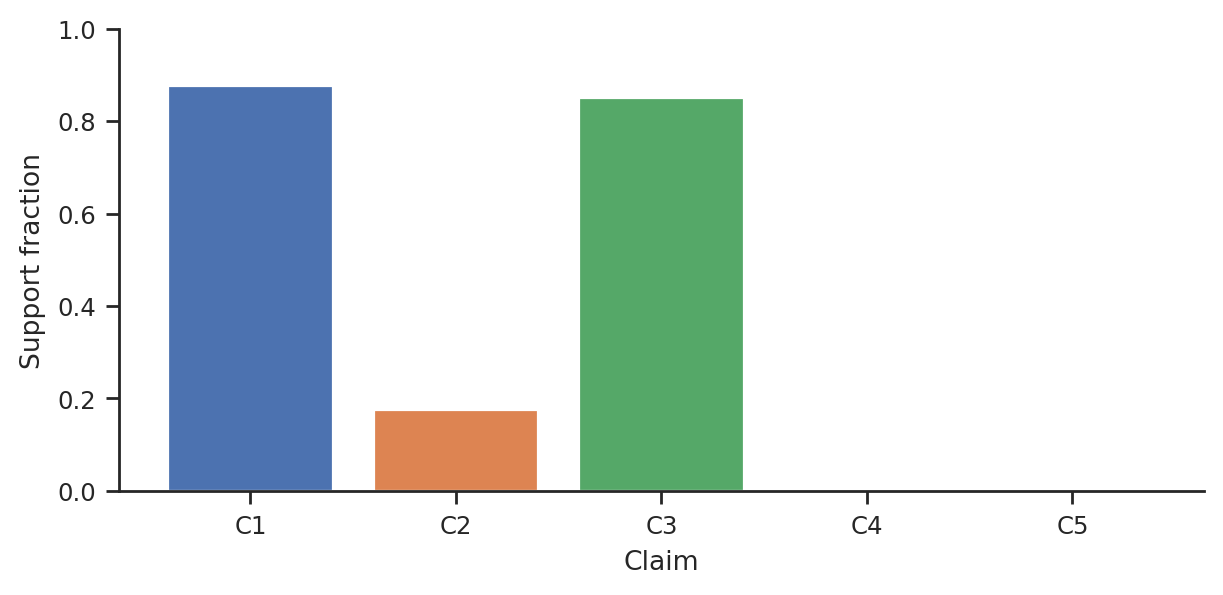
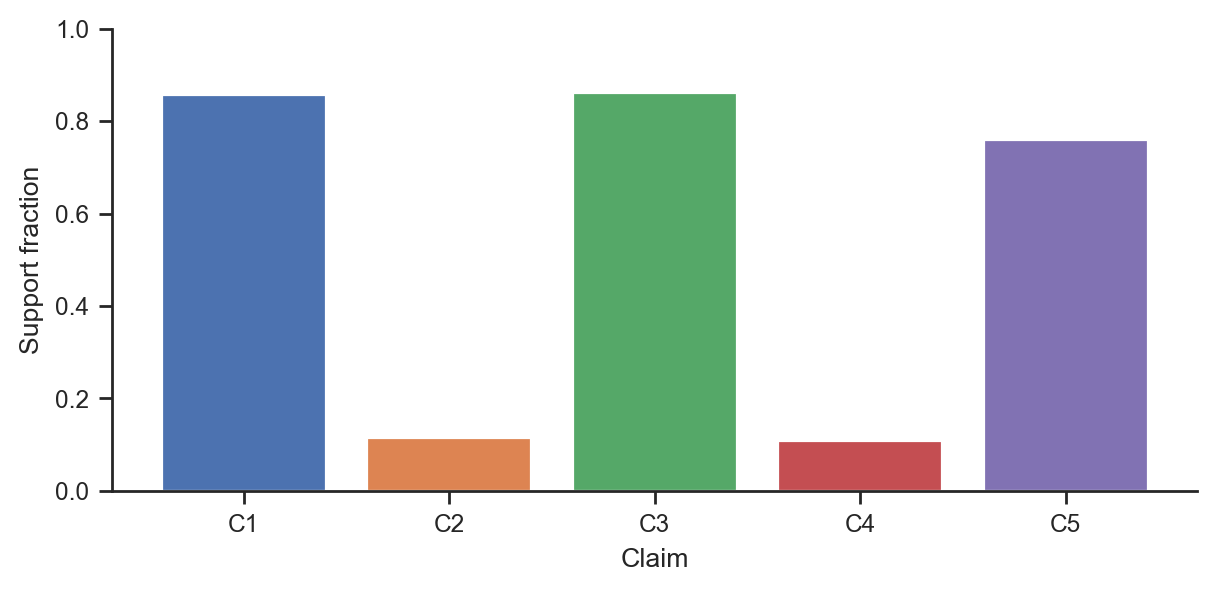
Fix claim aggregation and reproducibility diagnostics

Changed region(s): [[0.0, 0.0304, 0.9992, 0.973]]

diff --git a/closed_loop_repro/analysis/make_claim_tables.py b/closed_loop_repro/analysis/make_claim_tables.py
@@ -3,6 +3,7 @@ from __future__ import annotations
 import argparse
 from pathlib import Path
 
+import numpy as np
 import pandas as pd
 
 from closed_loop_repro.analysis.statistics import bootstrap_ci, fraction, pearson
@@ -18,13 +19,32 @@ CLAIMS = {
 }
 
 
+SUMMARY_FILENAMES = {"sweep_summary.csv", "robustness_summary.csv", "generalization_summary.csv"}
+
+
 def collect_metrics(root: str | Path) -> pd.DataFrame:
+    return collect_runs(root)
+
+
+def collect_runs(root: str | Path) -> pd.DataFrame:
+    summary_paths = sorted(path for path in Path(root).rglob("*.csv") if path.name in SUMMARY_FILENAMES)
+    if summary_paths:
+        selected = _prefer_full_outputs(summary_paths)
+        frames = []
+        for path in selected:
+            frame = pd.read_csv(path)
+            frame["source_table"] = str(path)
+            frames.append(frame)
+        return _add_derived_columns(pd.concat(frames, ignore_index=True, sort=False))
+
     rows = []
     for path in Path(root).rglob("metrics.json"):
+        if _is_smoke_path(path) and any(not _is_smoke_path(candidate) for candidate in Path(root).rglob("metrics.json")):
+            continue
         row = read_json(path)
         row["metrics_path"] = str(path)
         rows.append(row)
-    return pd.DataFrame(rows)
+    return _add_derived_columns(pd.DataFrame(rows))
 
 
 def make_claim_tables(results: str | Path, out: str | Path) -> dict[str, Path]:
@@ -38,12 +58,12 @@ def make_claim_tables(results: str | Path, out: str | Path) -> dict[str, Path]:
         return {"claim_csv": claim_path}
 
     rows = []
-    rows.append(_claim_row("C1", df, "claim_C1_divergence", "fraction of runs with gain/performance divergence"))
-    rows.append(_claim_row("C2", df, "claim_C2_stages", "fraction with algorithmic plateau/stage detection"))
-    rows.append(_claim_row("C3", df, "claim_C3_stability_transition", "fraction with coupled spectral radius crossing"))
-    rows.append(_numeric_row("C4", df, "stability_to_plateau_gap", "bootstrap CI for stability-to-plateau timing gap"))
+    rows.append(_claim_row("C1", df, "claim_C1_loss_divergence", "deployed closed-loop loss gap >5%; gain divergence reported in diagnostics"))
+    rows.append(_claim_row("C2", df, "claim_C2_stages", "finite runs with algorithmic plateau/stage detection"))
+    rows.append(_claim_row("C3", df, "claim_C3_stability_transition", "finite coupled spectral radius crossing"))
+    rows.append(_claim_row("C4", df, "claim_C4_tradeoff", "open-loop deployed-loss spike plus closed-loop recovery"))
     if "variant" in df.columns:
-        rows.append(_claim_row("C5", df[df["variant"].notna()], "claim_C1_divergence", "generalization variants preserving C1 divergence"))
+        rows.append(_claim_row("C5", df[df["variant"].notna()], "claim_C1_loss_divergence", "generalization variants preserving deployed-loss divergence"))
     else:
         rows.append({"claim": "C5", "description": CLAIMS["C5"], "n": 0, "support_fraction": float("nan"), "notes": "no generalization runs found"})
 
@@ -54,23 +74,114 @@ def make_claim_tables(results: str | Path, out: str | Path) -> dict[str, Path]:
 
     stats = {
         "n_runs": len(df),
+        "n_finite_runs": int(_bool_series(df.get("finite_final_losses", pd.Series(False, index=df.index))).sum()),
         "closed_open_final_loss_corr": pearson(df.get("final_closed_test_loss", []), df.get("final_open_test_loss", [])),
+        "c1_deployed_loss_support": fraction(df.get("claim_C1_loss_divergence", [])),
+        "c1_gain_support": fraction(df.get("claim_C1_gain_divergence", [])),
+        "mean_deployed_loss_gap": float(pd.to_numeric(df.get("deployed_loss_gap", pd.Series(dtype=float)), errors="coerce").mean()),
+        "mean_stability_to_plateau_gap": float(pd.to_numeric(df.get("stability_to_plateau_gap", pd.Series(dtype=float)), errors="coerce").mean()),
     }
     pd.DataFrame([stats]).to_csv(out / "summary_statistics.csv", index=False)
-    return {"claim_csv": claim_path, "summary_csv": out / "summary_statistics.csv"}
+    outputs = {"claim_csv": claim_path, "summary_csv": out / "summary_statistics.csv"}
+    if "perturbation" in df.columns and df["perturbation"].notna().any():
+        perturbation_path = out / "perturbation_summary.csv"
+        _group_summary(df[df["perturbation"].notna()], "perturbation").to_csv(perturbation_path, index=False)
+        outputs["perturbation_csv"] = perturbation_path
+    if "variant" in df.columns and df["variant"].notna().any():
+        variant_path = out / "variant_summary.csv"
+        _group_summary(df[df["variant"].notna()], "variant").to_csv(variant_path, index=False)
+        outputs["variant_csv"] = variant_path
+    return outputs
 
 
 def _claim_row(claim: str, df: pd.DataFrame, column: str, notes: str) -> dict:
     if df.empty or column not in df:
         return {"claim": claim, "description": CLAIMS[claim], "n": 0, "support_fraction": float("nan"), "notes": notes}
-    return {"claim": claim, "description": CLAIMS[claim], "n": int(df[column].notna().sum()), "support_fraction": fraction(df[column].fillna(False)), "notes": notes}
+    values = _bool_series(df[column]).fillna(False)
+    mean, lo, hi = bootstrap_ci(values.astype(float).to_numpy(), n_boot=500)
+    return {
+        "claim": claim,
+        "description": CLAIMS[claim],
+        "n": int(len(values)),
+        "support_fraction": mean,
+        "ci_low": lo,
+        "ci_high": hi,
+        "notes": notes,
+    }
 
 
-def _numeric_row(claim: str, df: pd.DataFrame, column: str, notes: str) -> dict:
-    if column not in df:
-        return {"claim": claim, "description": CLAIMS[claim], "n": 0, "support_fraction": float("nan"), "notes": notes}
-    mean, lo, hi = bootstrap_ci(pd.to_numeric(df[column], errors="coerce").dropna().to_numpy(), n_boot=500)
-    return {"claim": claim, "description": CLAIMS[claim], "n": int(df[column].notna().sum()), "support_fraction": mean, "ci_low": lo, "ci_high": hi, "notes": notes}
+def _prefer_full_outputs(paths: list[Path]) -> list[Path]:
+    full_paths = [path for path in paths if not _is_smoke_path(path)]
+    return full_paths or paths
+
+
+def _is_smoke_path(path: Path) -> bool:
+    return any("smoke" in part.lower() for part in path.parts)
+
+
+def _add_derived_columns(df: pd.DataFrame) -> pd.DataFrame:
+    if df.empty:
+        return df
+    df = df.copy()
+    closed = pd.to_numeric(df.get("final_closed_test_loss", pd.Series(np.nan, index=df.index)), errors="coerce")
+    open_loop = pd.to_numeric(df.get("final_open_test_loss", pd.Series(np.nan, index=df.index)), errors="coerce")
+    finite = np.isfinite(closed) & np.isfinite(open_loop)
+    loss_gap = open_loop - closed
+    relative_gap = loss_gap / np.maximum(np.abs(closed), 1e-12)
+    df["finite_final_losses"] = finite
+    df["deployed_loss_gap"] = loss_gap
+    df["deployed_loss_gap_relative_to_closed"] = relative_gap
+    df["claim_C1_loss_divergence"] = finite & (relative_gap > 0.05)
+
+    gain_distance = pd.to_numeric(df.get("trajectory_gain_distance", pd.Series(np.nan, index=df.index)), errors="coerce")
+    df["claim_C1_gain_divergence"] = np.isfinite(gain_distance) & (gain_distance > 0.05)
+    if "claim_C1_divergence" not in df.columns:
+        df["claim_C1_divergence"] = df["claim_C1_loss_divergence"] | df["claim_C1_gain_divergence"]
+
+    if "claim_C2_stages" in df.columns:
+        df["claim_C2_stages"] = _bool_series(df["claim_C2_stages"]) & finite
+    if "claim_C3_stability_transition" in df.columns:
+        radius = pd.to_numeric(df.get("final_closed_coupled_radius", pd.Series(np.nan, index=df.index)), errors="coerce")
+        df["claim_C3_stability_transition"] = _bool_series(df["claim_C3_stability_transition"]) & np.isfinite(radius)
+
+    open_spike = _bool_series(df.get("open_loop_test_loss_spike", pd.Series(False, index=df.index))).fillna(False)
+    recovered = _bool_series(df.get("closed_recovered", pd.Series(False, index=df.index))).fillna(False)
+    df["claim_C4_tradeoff"] = finite & open_spike & recovered
+    return df
+
+
+def _bool_series(values: object) -> pd.Series:
+    series = values if isinstance(values, pd.Series) else pd.Series(values)
+    if series.dtype == bool:
+        return series
+    if pd.api.types.is_numeric_dtype(series):
+        return series.fillna(0).astype(bool)
+    normalized = series.astype(str).str.strip().str.lower()
+    return normalized.map({"true": True, "1": True, "yes": True, "false": False, "0": False, "no": False}).fillna(False).astype(bool)
+
+
+def _group_summary(df: pd.DataFrame, group_col: str) -> pd.DataFrame:
+    rows = []
+    for name, group in df.groupby(group_col, dropna=True):
+        finite = _bool_series(group.get("finite_final_losses", pd.Series(False, index=group.index)))
+        rows.append(
+            {
+                group_col: name,
+                "n": int(len(group)),
+                "finite_runs": int(finite.sum()),
+                "failure_fraction": float(1.0 - finite.mean()) if len(finite) else float("nan"),
+                "mean_final_closed_test_loss": float(pd.to_numeric(group["final_closed_test_loss"], errors="coerce").mean()),
+                "mean_final_open_test_loss": float(pd.to_numeric(group["final_open_test_loss"], errors="coerce").mean()),
+                "mean_deployed_loss_gap": float(pd.to_numeric(group["deployed_loss_gap"], errors="coerce").mean()),
+                "c1_deployed_loss_support": fraction(group["claim_C1_loss_divergence"]),
+                "c1_gain_support": fraction(group["claim_C1_gain_divergence"]),
+                "c2_stage_support": fraction(group.get("claim_C2_stages", [])),
+                "c3_stability_support": fraction(group.get("claim_C3_stability_transition", [])),
+                "open_loop_spike_fraction": fraction(group.get("open_loop_test_loss_spike", [])),
+                "closed_recovery_fraction": fraction(group.get("closed_recovered", [])),
+            }
+        )
+    return pd.DataFrame(rows).sort_values(group_col)
 
 
 def _to_markdown(df: pd.DataFrame) -> str:

diff --git a/tests/test_analysis.py b/tests/test_analysis.py
@@ -1,6 +1,8 @@
 import numpy as np
+import pandas as pd
 
 from closed_loop_repro.analysis.gains import effective_gain
+from closed_loop_repro.analysis.make_claim_tables import make_claim_tables
 from closed_loop_repro.analysis.spectra import spectral_radius
 from closed_loop_repro.analysis.stages import detect_stages
 from closed_loop_repro.analysis.statistics import bootstrap_ci
@@ -25,6 +27,45 @@ def test_stage_detection_synthetic_plateau():
     assert result.stage1_end < result.plateau_end
 
 
+def test_stage_detection_rejects_nonfinite_loss():
+    result = detect_stages([1.0, np.nan, np.nan, np.nan], min_plateau=2)
+    assert not result.plateau_detected
+    assert result.stability_crossing is None
+
+
 def test_bootstrap_ci_smoke():
     mean, lo, hi = bootstrap_ci([1, 2, 3], n_boot=100, seed=0)
     assert lo <= mean <= hi
+
+
+def test_claim_tables_prefer_summary_csvs(tmp_path):
+    raw = tmp_path / "raw"
+    full = raw / "generalization_maximal"
+    smoke = raw / "smoke_double_integrator"
+    full.mkdir(parents=True)
+    smoke.mkdir(parents=True)
+    columns = {
+        "experiment": ["full"],
+        "seed": [0],
+        "final_closed_test_loss": [1.0],
+        "final_open_test_loss": [1.2],
+        "trajectory_gain_distance": [0.0],
+        "claim_C2_stages": [True],
+        "claim_C3_stability_transition": [False],
+        "open_loop_test_loss_spike": [True],
+        "closed_recovered": [True],
+        "final_closed_coupled_radius": [np.nan],
+        "variant": ["toy"],
+    }
+    pd.DataFrame(columns).to_csv(full / "generalization_summary.csv", index=False)
+    pd.DataFrame({**columns, "experiment": ["smoke"], "final_open_test_loss": [1.0]}).to_csv(
+        smoke / "sweep_summary.csv", index=False
+    )
+
+    paths = make_claim_tables(raw, tmp_path / "processed")
+    claim_df = pd.read_csv(paths["claim_csv"])
+    c1 = claim_df.loc[claim_df["claim"] == "C1"].iloc[0]
+    c5 = claim_df.loc[claim_df["claim"] == "C5"].iloc[0]
+    assert c1["n"] == 1
+    assert c1["support_fraction"] == 1.0
+    assert c5["n"] == 1

diff --git a/closed_loop_repro/training/experiment.py b/closed_loop_repro/training/experiment.py
@@ -233,14 +233,19 @@ def _compute_metrics(records: list[dict[str, float]], stages, seed: int, config:
     closed_gain = np.asarray([[r.get(f"closed_gain_{i}", np.nan) for i in range(8)] for r in records], dtype=float)
     open_gain = np.asarray([[r.get(f"open_gain_{i}", np.nan) for i in range(8)] for r in records], dtype=float)
     final_gain_distance = gain_distance(np.nan_to_num(closed_gain[-1]), np.nan_to_num(open_gain[-1]))
-    initial_open = max(float(open_test[0]), 1e-12)
+    initial_open = float(open_test[0]) if np.isfinite(open_test[0]) else 1e-12
     final_closed = float(closed_test[-1])
     final_open = float(open_test[-1])
-    open_spike = bool(np.nanmax(open_test) > 2.0 * max(initial_open, final_open, 1e-12))
+    finite_final_losses = bool(np.isfinite(final_closed) and np.isfinite(final_open))
+    loss_gap = final_open - final_closed
+    relative_loss_gap = loss_gap / max(abs(final_closed), 1e-12) if finite_final_losses else float("nan")
+    c1_loss_divergence = bool(finite_final_losses and relative_loss_gap > 0.05)
+    c1_gain_divergence = bool(np.isfinite(final_gain_distance) and final_gain_distance > 0.05)
+    open_spike = bool(np.any(np.isfinite(open_test)) and np.nanmax(open_test) > 2.0 * max(initial_open, final_open, 1e-12))
     stability_crossing = stages.stability_crossing
     plateau_exit = stages.plateau_end
     timing_gap = None if stability_crossing is None else int(plateau_exit - stability_crossing)
-    recovered = bool(np.isfinite(final_closed) and final_closed < closed_test[0])
+    recovered = bool(finite_final_losses and np.isfinite(closed_test[0]) and final_closed < closed_test[0])
     return {
         "experiment": config.get("experiment_name", "unnamed"),
         "seed": seed,
@@ -249,8 +254,10 @@ def _compute_metrics(records: list[dict[str, float]], stages, seed: int, config:
         "epochs": len(records),
         "final_closed_test_loss": final_closed,
         "final_open_test_loss": final_open,
-        "peak_open_test_loss": float(np.nanmax(open_test)),
-        "peak_closed_test_loss": float(np.nanmax(closed_test)),
+        "peak_open_test_loss": _safe_nanmax(open_test),
+        "peak_closed_test_loss": _safe_nanmax(closed_test),
+        "deployed_loss_gap": float(loss_gap),
+        "deployed_loss_gap_relative_to_closed": float(relative_loss_gap),
         "trajectory_gain_distance": final_gain_distance,
         "open_loop_test_loss_spike": open_spike,
         "closed_loop_plateau": bool(stages.plateau_detected),
@@ -261,10 +268,20 @@ def _compute_metrics(records: list[dict[str, float]], stages, seed: int, config:
         "stability_to_plateau_gap": timing_gap,
         "final_closed_coupled_radius": float(closed_radius[-1]),
         "closed_recovered": recovered,
-        "claim_C1_divergence": bool(final_gain_distance > 0.05 or abs(final_open - final_closed) > 0.05 * max(final_closed, 1e-12)),
-        "claim_C2_stages": bool(stages.plateau_detected),
-        "claim_C3_stability_transition": bool(stability_crossing is not None),
+        "finite_final_losses": finite_final_losses,
+        "claim_C1_loss_divergence": c1_loss_divergence,
+        "claim_C1_gain_divergence": c1_gain_divergence,
+        "claim_C1_divergence": bool(c1_loss_divergence or c1_gain_divergence),
+        "claim_C2_stages": bool(finite_final_losses and stages.plateau_detected),
+        "claim_C3_stability_transition": bool(np.isfinite(closed_radius[-1]) and stability_crossing is not None),
     }
+
+
+def _safe_nanmax(values: np.ndarray) -> float:
+    finite = values[np.isfinite(values)]
+    if finite.size == 0:
+        return float("nan")
+    return float(np.max(finite))
 
 
 def _optimizer(controller: nn.Module, cfg: dict[str, Any]) -> torch.optim.Optimizer:

diff --git a/closed_loop_repro/analysis/stages.py b/closed_loop_repro/analysis/stages.py
@@ -35,6 +35,9 @@ def detect_stages(
     if loss.ndim != 1 or len(loss) < 3:
         labels = np.ones(len(loss), dtype=int)
         return StageResult(0, len(loss), labels, False, None)
+    if not np.all(np.isfinite(loss)):
+        labels = np.ones(len(loss), dtype=int)
+        return StageResult(0, len(loss), labels, False, None)
 
     y = np.log(np.maximum(loss, 1e-12))
     y = _smooth(y, window=max(3, min(11, len(y) // 8 * 2 + 1)))

diff --git a/results/processed/claim_reproducibility_matrix.md b/results/processed/claim_reproducibility_matrix.md
@@ -1,7 +1,7 @@
-| claim | description | n | support_fraction | notes | ci_low | ci_high |
+| claim | description | n | support_fraction | ci_low | ci_high | notes |
 | --- | --- | --- | --- | --- | --- | --- |
-| C1 | Closed-loop/open-loop divergence | 299 | 0.8762541806020067 | fraction of runs with gain/performance divergence |  |  |
-| C2 | Closed-loop stages | 299 | 0.17391304347826086 | fraction with algorithmic plateau/stage detection |  |  |
-| C3 | Coupled-system stability transition | 299 | 0.8494983277591973 | fraction with coupled spectral radius crossing |  |  |
-| C4 | Short-term vs long-term tradeoff | 254 | -5.681102362204724 | bootstrap CI for stability-to-plateau timing gap | -11.384645669291332 | -1.0346456692913393 |
-| C5 | Generalization | 0 |  | no generalization runs found |  |  |
+| C1 | Closed-loop/open-loop divergence | 295 | 0.8576271186440678 | 0.823728813559322 | 0.8949152542372881 | deployed closed-loop loss gap >5%; gain divergence reported in diagnostics |
+| C2 | Closed-loop stages | 295 | 0.1152542372881356 | 0.08135593220338982 | 0.14915254237288136 | finite runs with algorithmic plateau/stage detection |
+| C3 | Coupled-system stability transition | 295 | 0.8610169491525423 | 0.8185593220338984 | 0.8983050847457628 | finite coupled spectral radius crossing |
+| C4 | Short-term vs long-term tradeoff | 295 | 0.10847457627118644 | 0.07457627118644068 | 0.14576271186440679 | open-loop deployed-loss spike plus closed-loop recovery |
+| C5 | Generalization | 50 | 0.76 | 0.64 | 0.88 | generalization variants preserving deployed-loss divergence |